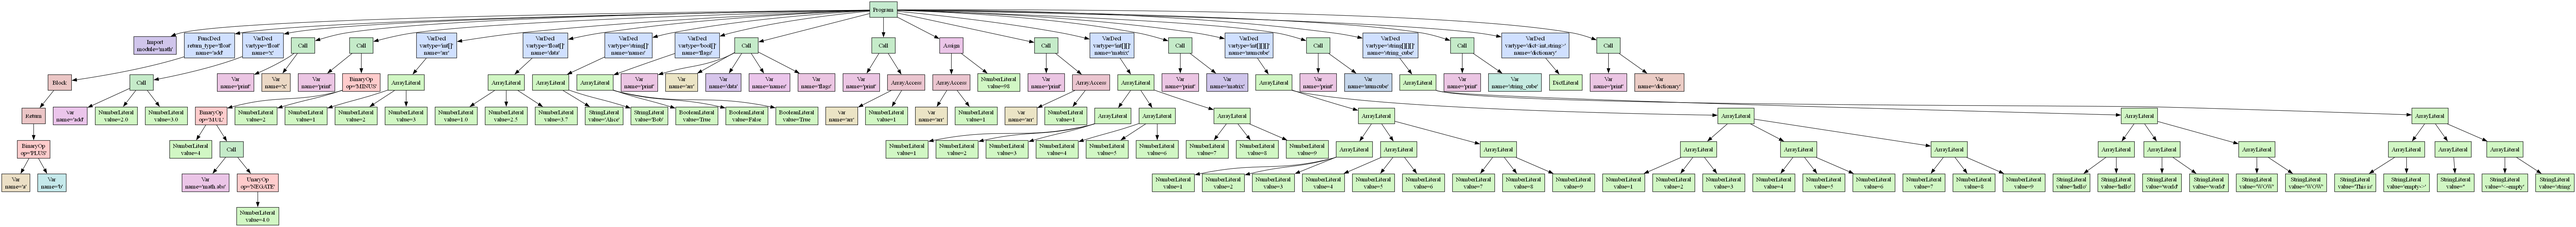
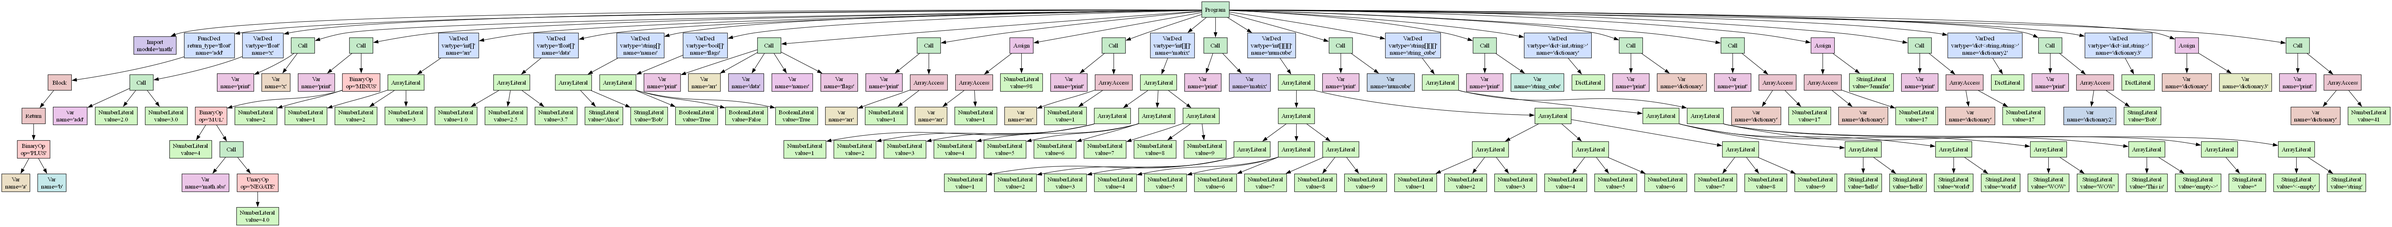
Assigning Dictionary (Typechecker)
Assigning Dictionary values now passes the type checker

diff --git a/mars_compiler/type_checker.py b/mars_compiler/type_checker.py
@@ -210,7 +210,7 @@ class TypeChecker:
                         raise TypeError(f"Type mismatch in assignment to '{name}': expected {expected}, got {value_type}")
                     return expected
 
-                # Assignment to an array element: ArrayAccess(array, index)
+                # Assignment to array or dictionary element: ArrayAccess(container, index)
                 if isinstance(name_node, ArrayAccess):
                     # base must be a variable (we require assignable lvalue)
                     base = name_node.array
@@ -223,20 +223,37 @@ class TypeChecker:
                         raise TypeError("Cannot assign to immutable symbol")
 
                     base_type = base_sym["type"]
-                    if not (isinstance(base_type, str) and base_type.startswith("array<") and base_type.endswith(">")):
-                        raise TypeError(f"Trying to index non-array type '{base_type}'")
 
-                    elem_type = base_type[len("array<"):-1]  # extract element type
-                    # check index type
-                    idx_type = self.check(name_node.index)
-                    if idx_type != "int":
-                        raise TypeError(f"Array index must be an int, got {idx_type}")
+                    # ---------------- ARRAY ASSIGN ----------------
+                    if base_type.startswith("array<") and base_type.endswith(">"):
+                        elem_type = base_type[len("array<"):-1]
 
-                    value_type = self.check(value)
-                    if value_type != elem_type:
-                        raise TypeError(f"Type mismatch assigning to array element: expected {elem_type}, got {value_type}")
-                    return elem_type
+                        idx_type = self.check(name_node.index)
+                        if idx_type != "int":
+                            raise TypeError(f"Array index must be int, got {idx_type}")
 
+                        value_type = self.check(value)
+                        if value_type != elem_type:
+                            raise TypeError(f"Type mismatch assigning to array element: expected {elem_type}, got {value_type}")
+
+                        return elem_type
+
+                    # ---------------- DICT ASSIGN ----------------
+                    if base_type.startswith("dict<") and base_type.endswith(">"):
+                        inside = base_type[len("dict<"):-1]
+                        key_type, val_type = [x.strip() for x in inside.split(",")]
+
+                        idx_type = self.check(name_node.index)
+                        if idx_type != key_type:
+                            raise TypeError(f"Dictionary key must be {key_type}, got {idx_type}")
+
+                        value_type = self.check(value)
+                        if value_type != val_type:
+                            raise TypeError(f"Type mismatch assigning to dictionary element: expected {val_type}, got {value_type}")
+
+                        return val_type
+
+                    raise TypeError(f"Trying to index non-indexable type '{base_type}'")
                 raise TypeError("LHS of assignment must be a variable or an array access")
 
 
